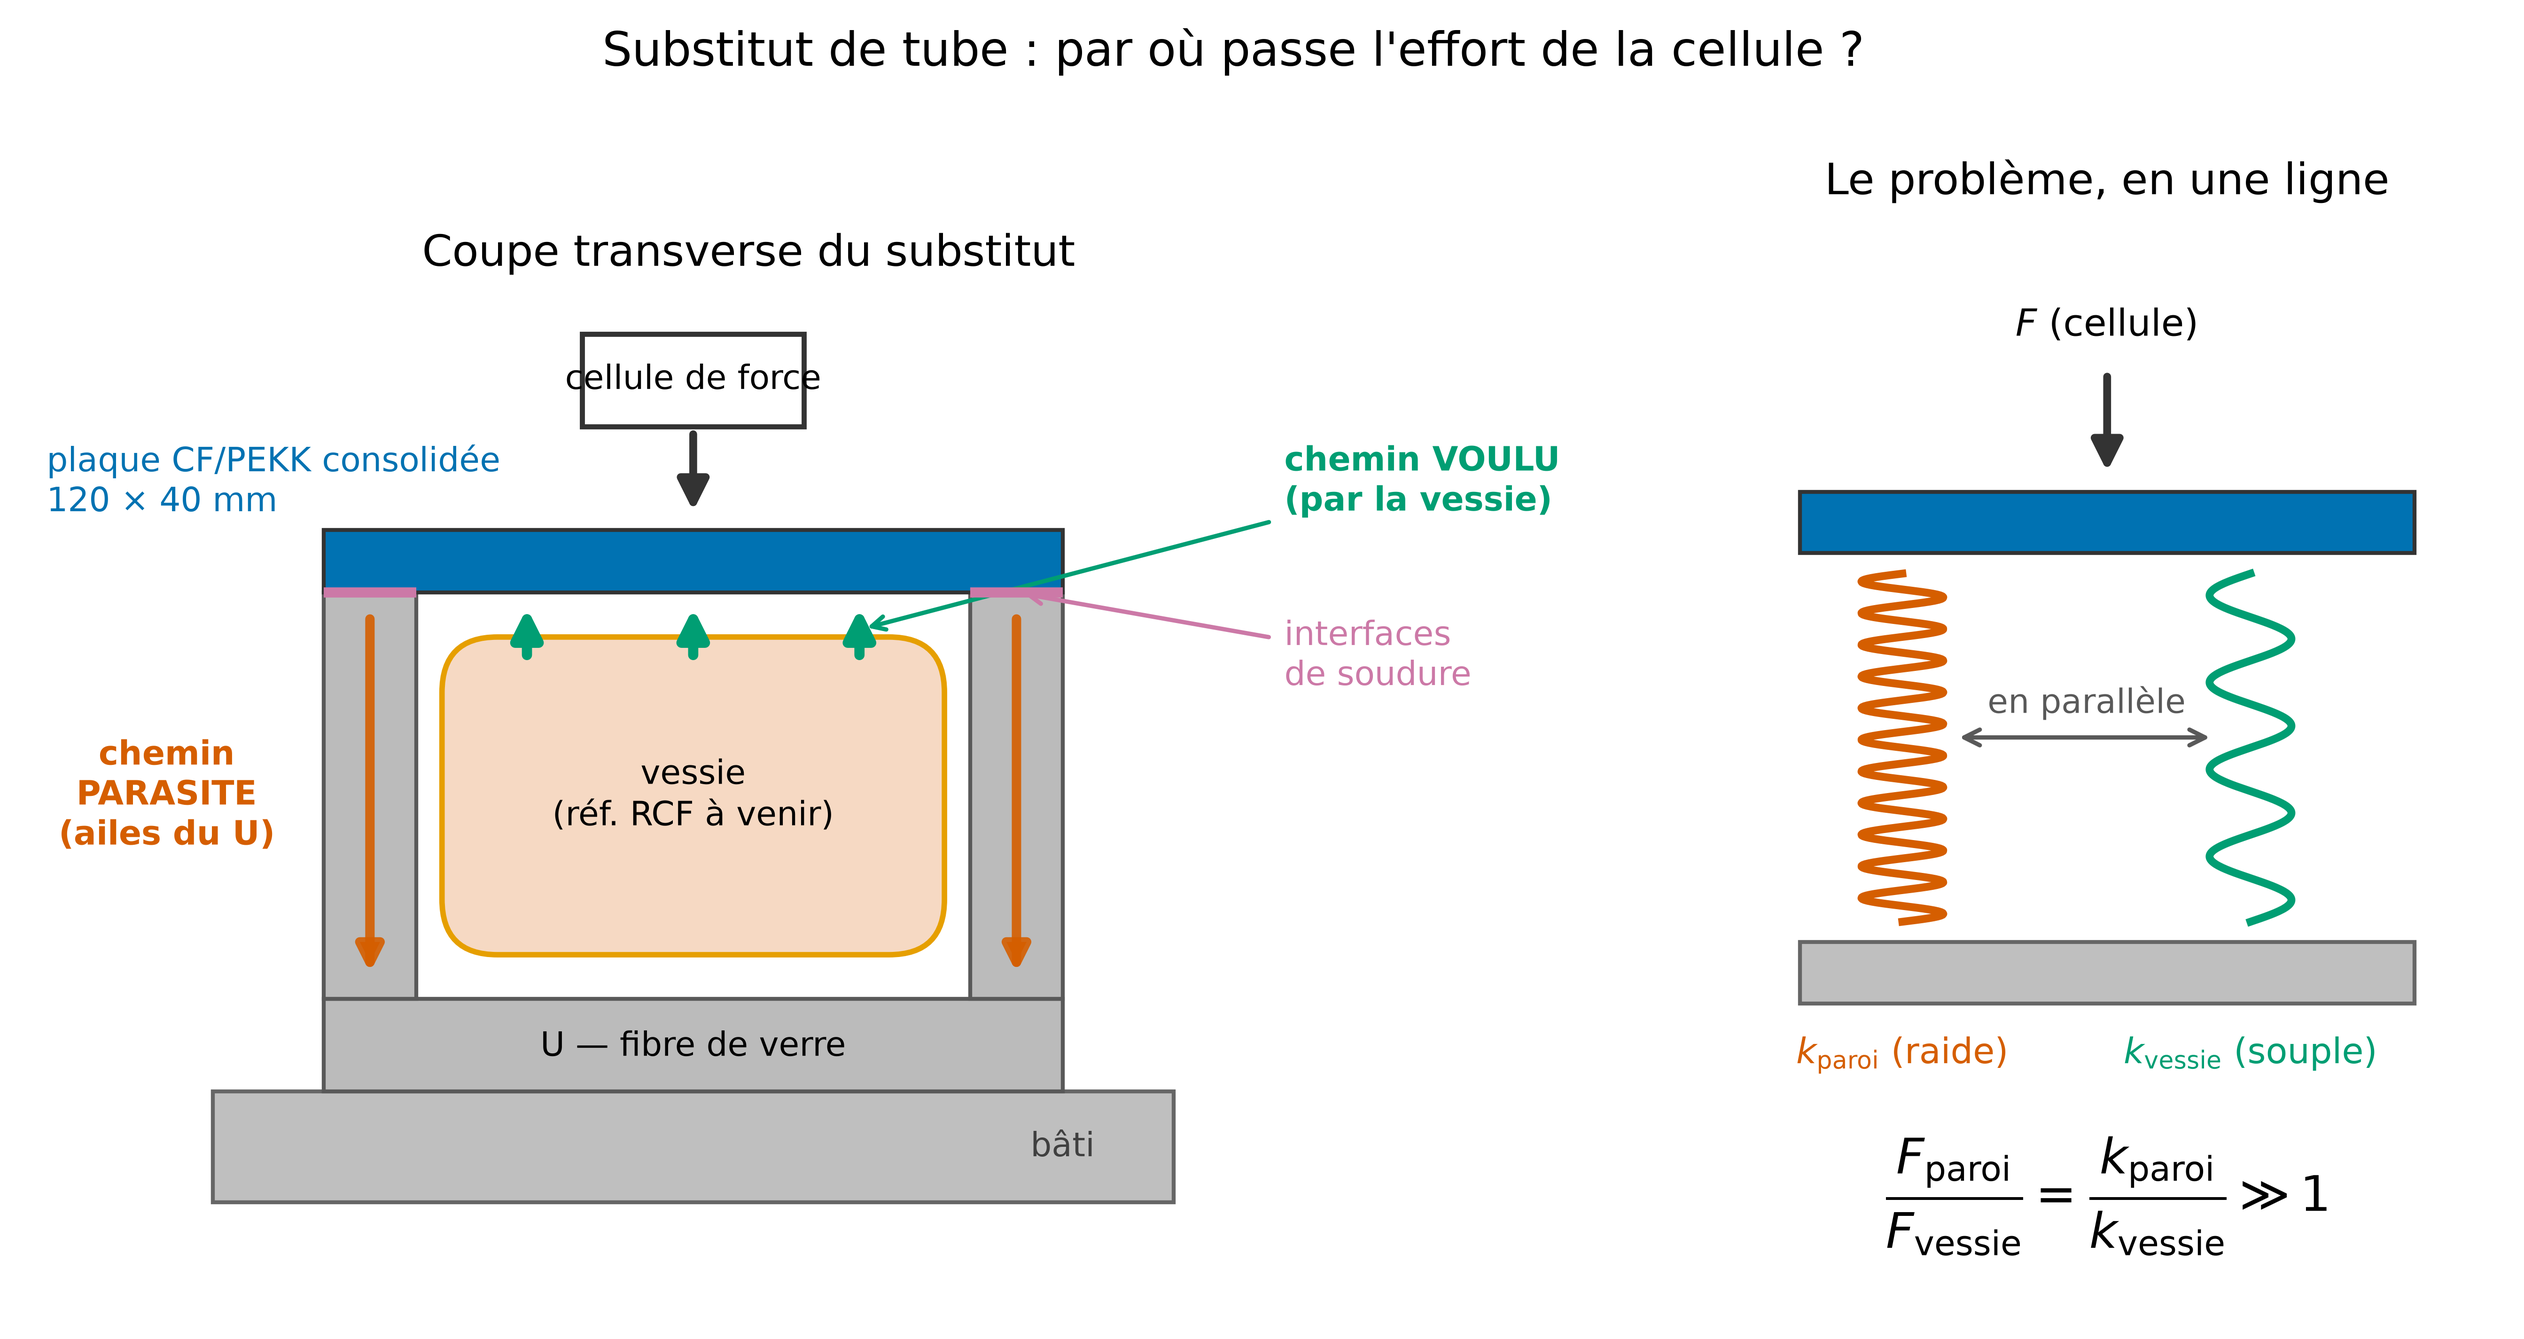
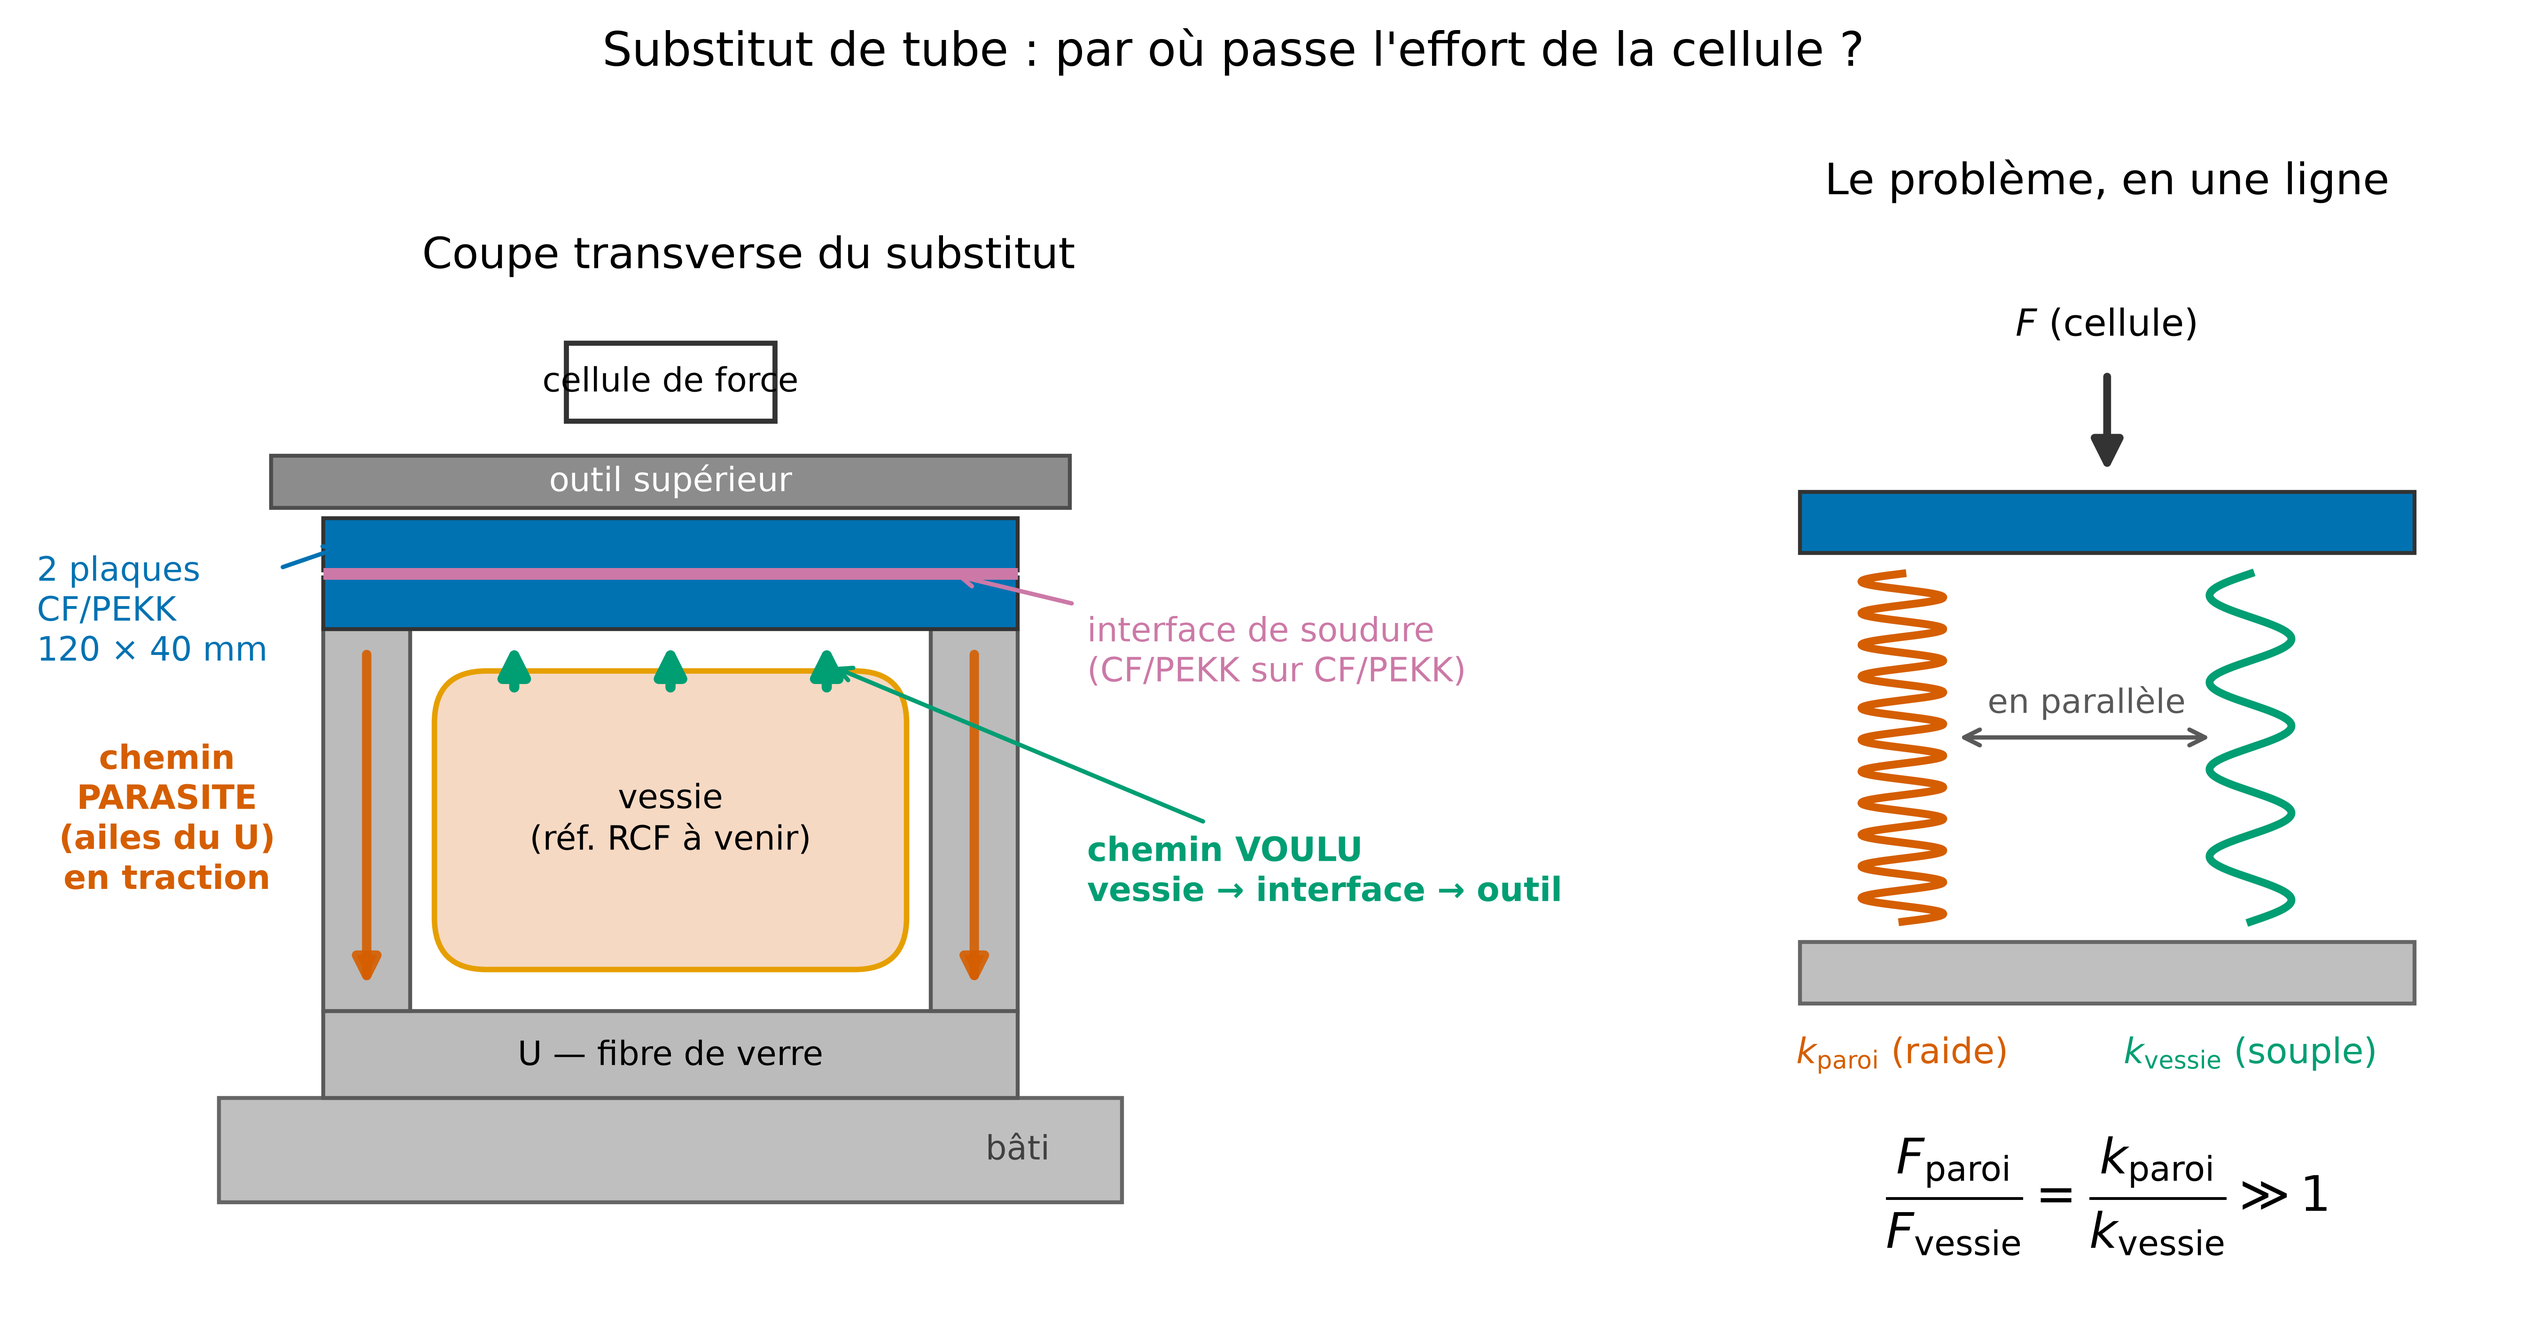
issue #71 : la soudure est CF/PEKK sur CF/PEKK — figure corrigee, circuit etabli
CORRECTION D'UNE ERREUR DE MA PART. Je placais les interfaces de soudure SUR LES
AILES DU U, et la figure le dessinait ainsi. C'est faux : la soudure se fait
entre DEUX PLAQUES CF/PEKK de meme longueur, comme sur le montage plan actuel.
Le U referme le tube et tient la geometrie ; il n'est pas un substrat de soudure.
Figure refaite en consequence : deux plaques empilees, interface entre elles,
outil superieur ajoute au-dessus.

LE CIRCUIT EST DESORMAIS ETABLI par trois reponses successives — cellule
au-dessus, vessie poussant vers le haut contre l'outil superieur, soudure
plaque-sur-plaque :

  vessie -> plaque inferieure -> interface -> plaque superieure -> outil -> cellule

Les ailes relient l'ame (poussee vers le bas) aux plaques (retenues en haut) :
elles travaillent en TRACTION et SOUSTRAIENT a ce qui traverse l'interface,
p.A = R_outil + T_ailes. Plus les ailes sont raides, moins la vessie atteint la
soudure — la crainte initiale est fondee, et desormais ecrite sous forme de
bilan.

POINT FAVORABLE, sous reserve de verification : si rien d'autre que l'outil ne
touche la plaque superieure, la cellule mesure R_outil, c'est-a-dire l'effort qui
traverse REELLEMENT l'interface, et non une somme polluee. L'instrumentation
serait alors saine et le probleme se reduirait a un rendement. La reserve est
ecrite : tout appui lateral ou toute reprise sur le U rouvrirait la question.

Pistes reordonnees : la 1 devient decoupler les ailes de l'empilement (la plus
[…]

diff --git a/code/scripts/gen/gen_schema_substitut_tube.py b/code/scripts/gen/gen_schema_substitut_tube.py
@@ -1,8 +1,16 @@
 """Schéma du problème de cheminement d'effort — substitut de tube en U (issue à ouvrir).
 
 Le tube CF/PEKK ne sera pas disponible. Le substitut envisagé : un U en fibre de
-verre refermé par une plaque CF/PEKK consolidée 120 x 40 mm, soudée sur les deux
-ailes du U — l'ensemble formant un tube. Une vessie gonflable occupe la cavité.
+verre refermé par une plaque CF/PEKK consolidée 120 x 40 mm — l'ensemble formant
+un tube. Une vessie gonflable occupe la cavité.
+
+LA SOUDURE EST ENTRE DEUX PLAQUES CF/PEKK de même longueur, posées sur le tube,
+comme sur le montage plan actuel. Le U n'est PAS un substrat de soudure : il est
+purement structurel. (Une version antérieure de ce schéma plaçait à tort les
+interfaces sur les ailes du U.)
+
+LA VESSIE pousse l'empilement vers le haut contre l'OUTIL SUPÉRIEUR : c'est cette
+réaction qui comprime l'interface de soudure.
 
 LA QUESTION : faire passer l'effort de la cellule de force DANS LA VESSIE, et non
 dans les parois du U.
@@ -59,43 +67,46 @@ def panneau_montage(ax) -> None:
                                 facecolor="#F6D9C3", edgecolor=OKABE_ITO["orange"], lw=1.4))
     ax.text(20, 16, "vessie\n(réf. RCF à venir)", ha="center", va="center", fontsize=8.5)
 
-    # plaque CF/PEKK soudee sur les deux ailes
-    ax.add_patch(Rectangle((0, 27), 40, 3.4, facecolor=CFPEKK, edgecolor="0.2"))
-    ax.annotate("plaque CF/PEKK consolidée\n120 × 40 mm", xy=(4, 28.7), xytext=(-15, 33),
+    # plaque 1 : referme le U pour en faire un tube
+    ax.add_patch(Rectangle((0, 27), 40, 3, facecolor=CFPEKK, edgecolor="0.2"))
+    # plaque 2 : soudee sur la premiere, meme longueur
+    ax.add_patch(Rectangle((0, 30.4), 40, 3, facecolor=CFPEKK, edgecolor="0.2"))
+    ax.annotate("2 plaques\nCF/PEKK\n120 × 40 mm", xy=(1.5, 31.9), xytext=(-16.5, 28),
                 fontsize=8.5, color=CFPEKK, ha="left", va="center",
                 arrowprops=dict(arrowstyle="->", color=CFPEKK, lw=1.1))
 
-    # interfaces de soudure
-    for x in (2.5, 37.5):
-        ax.plot([x - 2.5, x + 2.5], [27, 27], color=OKABE_ITO["rose"], lw=2.6,
-                solid_capstyle="butt", zorder=5)
-    ax.annotate("interfaces\nde soudure", xy=(37.5, 27), xytext=(52, 22),
+    # INTERFACE DE SOUDURE : entre les deux plaques, pas sur les ailes du U
+    ax.plot([0, 40], [30.2, 30.2], color=OKABE_ITO["rose"], lw=3.0,
+            solid_capstyle="butt", zorder=6)
+    ax.annotate("interface de soudure\n(CF/PEKK sur CF/PEKK)", xy=(36, 30.2), xytext=(44, 24),
                 fontsize=8.5, color=OKABE_ITO["rose"], ha="left",
                 arrowprops=dict(arrowstyle="->", color=OKABE_ITO["rose"], lw=1.1))
 
-    # cellule de force
-    ax.add_patch(Rectangle((14, 36), 12, 5, facecolor="white", edgecolor="0.2", lw=1.3))
-    ax.text(20, 38.5, "cellule de force", ha="center", va="center", fontsize=8.5)
-    ax.add_patch(FancyArrowPatch((20, 36), (20, 31), arrowstyle="-|>",
-                                 mutation_scale=16, color="0.2", lw=2))
+    # outil superieur + cellule au-dessus
+    ax.add_patch(Rectangle((-3, 34), 46, 3, facecolor="0.55", edgecolor="0.3"))
+    ax.text(20, 35.5, "outil supérieur", ha="center", va="center", fontsize=8.5,
+            color="white")
+    ax.add_patch(Rectangle((14, 39), 12, 4.5, facecolor="white", edgecolor="0.2", lw=1.3))
+    ax.text(20, 41.2, "cellule de force", ha="center", va="center", fontsize=8.5)
 
     # chemin PARASITE : par les ailes
     for x in (2.5, 37.5):
         ax.add_patch(FancyArrowPatch((x, 26), (x, 6), arrowstyle="-|>", mutation_scale=13,
                                      color=PARASITE, lw=2.4, alpha=0.9))
-    ax.text(-8.5, 16, "chemin\nPARASITE\n(ailes du U)", ha="center", va="center",
-            fontsize=8.5, color=PARASITE, fontweight="bold")
+    ax.text(-9, 16, "chemin\nPARASITE\n(ailes du U)\nen traction", ha="center",
+            va="center", fontsize=8.5, color=PARASITE, fontweight="bold")
 
-    # chemin VOULU : par la vessie
+    # chemin VOULU : la vessie POUSSE VERS LE HAUT, l'outil reagit
     for x in (11, 20, 29):
         ax.add_patch(FancyArrowPatch((x, 23.2), (x, 26.6), arrowstyle="-|>",
                                      mutation_scale=15, color=VOULU, lw=2.6))
-    ax.annotate("chemin VOULU\n(par la vessie)", xy=(29, 25), xytext=(52, 33),
+    ax.annotate("chemin VOULU\nvessie → interface → outil",
+                xy=(29, 25), xytext=(44, 13),
                 fontsize=8.5, color=VOULU, fontweight="bold", ha="left", va="center",
                 arrowprops=dict(arrowstyle="->", color=VOULU, lw=1.1))
 
-    ax.set_xlim(-16, 62)
-    ax.set_ylim(-8, 43)
+    ax.set_xlim(-17, 66)
+    ax.set_ylim(-8, 46)
     ax.set_aspect("equal")
     ax.axis("off")
     ax.set_title("Coupe transverse du substitut", pad=8)

diff --git a/biblio/modele/issue71_substitut_tube_chemin_effort.md b/biblio/modele/issue71_substitut_tube_chemin_effort.md
@@ -11,14 +11,15 @@ Le tube CF/PEKK ne sera pas disponible pour le projet. Le substitut envisagé :
 
 - un **U en fibre de verre**,
 - refermé par une **plaque CF/PEKK consolidée 120 × 40 mm** (presse chauffante, comme les échantillons actuels),
-- soudée sur les deux ailes du U — l'ensemble formant un tube,
+- refermant le U pour en faire un **tube** — le U est **structurel**, pas un substrat de soudure,
+- **une seconde plaque CF/PEKK de même longueur soudée sur la première** : c'est là qu'est l'interface étudiée, comme sur le montage plan actuel,
 - une **vessie** gonflable dans la cavité (référence à venir de **RCF Technologies**).
 
 ## La question
 
 **Comment faire passer les efforts transmis par la cellule de force dans la vessie, et non dans les parois du U ?**
 
-![Cheminement de l'effort](https://raw.githubusercontent.com/maxencesoixante/Jumeau_Soudage_Induction/main/biblio/labo/figures/fig_substitut_tube_chemins_effort.png)
+![Cheminement de l'effort](https://raw.githubusercontent.com/maxencesoixante/Jumeau_Soudage_Induction/main/biblio/labo/figures/fig_substitut_tube_chemins_effort.png?v=1)
 
 *À gauche : la coupe transverse et les deux trajets possibles de l'effort. À droite : le même montage réduit à deux raideurs en parallèle.*
 
@@ -55,8 +56,8 @@ Deux conséquences pour les pistes ci-dessous. La piste 1 devient celle qui **re
 
 Rien de ce qui suit n'est vérifié — ce sont les familles de solutions à instruire, pas une recommandation.
 
-1. **Supprimer le chemin parasite par un jeu.** La plaque ne repose pas sur les ailes : un jeu les sépare, la vessie seule porte, et les ailes ne servent que de butée au-delà d'une course donnée. Demande de maîtriser ce jeu à chaud, alors que la soudure le referme.
-2. **Mettre la cellule en série avec la vessie et non en parallèle avec la structure.** La cellule mesure la réaction de la vessie (piston, ligne de pression) plutôt que l'effort global du bâti. Le partage cesse d'être un problème : on ne mesure que ce qui traverse la vessie.
+1. **Découpler les ailes de l'empilement.** Si les plaques ne sont pas solidaires des ailes, celles-ci ne peuvent plus tirer vers le bas : toute la poussée de la vessie traverse l'interface. C'est la piste la plus directe au vu du circuit établi. Reste à savoir comment le U tient alors la géométrie — les deux fonctions doivent être portées par des éléments distincts.
+2. ~~**Mettre la cellule en série avec la vessie**~~ — **sans objet.** La cellule mesure déjà la réaction de l'outil, donc l'effort qui traverse l'interface, sous réserve du point de vérification ci-dessus.
 3. **Piloter en pression plutôt qu'en effort.** La pression d'interface vaut la pression vessie (à la géométrie près), indépendamment du chemin parasite ; la cellule ne sert plus que de sécurité. Demande de connaître la pression réellement transmise par la vessie.
 4. ~~**Assouplir localement les ailes**~~ — **écartée.** Le U doit tenir la géométrie sous pression pendant la soudure (confirmé) : il ne peut pas être rendu souple. La piste est close, pas en attente.
 
@@ -65,24 +66,29 @@ Rien de ce qui suit n'est vérifié — ce sont les familles de solutions à ins
 - **Référence et caractéristiques de la vessie** — attendues de RCF Technologies. Sans sa raideur et sa plage de pression, le rapport $k_{\text{paroi}}/k_{\text{vessie}}$ n'est pas chiffrable, et aucune piste ne peut être comparée.
 - **Section du U** : hauteur, largeur intérieure, épaisseur des ailes. Seule la plaque est cotée (120 × 40 mm).
 
-## Ce que fait la vessie — et la question que cela déplace
+## Le circuit, maintenant établi
 
-**Réponse confirmée : la vessie pousse la plaque contre l'outil supérieur.** La pression de consolidation s'applique donc **sur la plaque**, la réaction étant fournie par l'outil au-dessus. Ce n'est pas la vessie qui referme les soudures des ailes.
+Trois réponses ont fermé les inconnues de conception :
 
-Deux conséquences.
+1. la **cellule est au-dessus** de l'empilement ;
+2. la **vessie pousse l'empilement vers le haut contre l'outil supérieur** ;
+3. la soudure se fait **CF/PEKK sur CF/PEKK**, deux plaques de même longueur — le U ne porte aucune soudure.
 
-**Les soudures d'ailes ne sont pas consolidées par la vessie.** La plaque étant poussée vers le haut et retenue par l'outil, les ailes travaillent en **traction** : la vessie tend à écarter la plaque du U, non à la plaquer sur les ailes. Ce qui met ces interfaces-là en compression pendant la soudure reste à identifier — c'est une question distincte de celle posée ici, mais elle ne peut pas rester ouverte indéfiniment.
+Le circuit voulu est donc : **vessie → plaque inférieure → interface de soudure → plaque supérieure → outil → cellule**. La pression de consolidation vient de la vessie, et c'est l'outil supérieur qui fournit la réaction.
 
-**Et surtout, la nature de la cellule redevient incertaine.** Deux montages sont compatibles avec ce qui est décrit, et ils n'ont pas le même problème :
+### Ce que les ailes du U détournent
 
-| montage | rôle de la cellule | le partage d'effort dans les ailes |
-|---|---|---|
-| **A — presse au-dessus** : un vérin pousse l'outil vers le bas, la vessie pousse vers le haut ; la plaque est prise en étau | la cellule **transmet** l'effort de la presse | **pollue la mesure** — l'analyse de cette issue s'applique intégralement |
-| **B — vessie seule actionneur** : la vessie pousse, l'outil supérieur ne fait que réagir | la cellule **mesure la réaction** de l'outil | ne la pollue **pas** : la cellule lit $p \cdot A_{\text{plaque}}$, le circuit des ailes est séparé (vessie → âme → bâti) |
+Les ailes relient l'âme (poussée vers le bas par la vessie) aux plaques (retenues en haut par l'outil) : elles travaillent donc en **traction**, et cette traction **soustrait** à ce qui traverse l'interface. Sur la plaque inférieure :
 
-⚠ **Dans le montage B, le problème posé par cette issue n'existe pas.** La cellule n'est plus en parallèle avec les ailes mais en série avec la vessie — ce que la piste 2 cherchait précisément à obtenir, et qui serait déjà acquis. La figure de cette issue suppose le montage A.
+$$p \cdot A = R_{\text{outil}} + T_{\text{ailes}}$$
 
-**C'est donc la question à trancher en premier :** la cellule transmet-elle l'effort d'une presse, ou mesure-t-elle la réaction d'un outil que seule la vessie sollicite ?
+Autrement dit, **plus les ailes sont raides, moins la pression de la vessie atteint la soudure** — il faut alors gonfler davantage pour une même pression d'interface, et le rapport entre les deux devient inconnu. C'est exactement la crainte formulée au départ, et elle est fondée.
+
+### Un point favorable, qu'il faut vérifier
+
+Si rien d'autre que l'outil ne touche la plaque supérieure, la cellule mesure $R_{\text{outil}}$, c'est-à-dire **l'effort qui traverse réellement l'interface** — pas la somme polluée. Dans ce cas l'instrumentation est saine, et le problème se réduit à un rendement : quelle fraction de $p \cdot A$ arrive à la soudure.
+
+⚠ **À confirmer sur le montage réel** : la plaque supérieure ne doit toucher que l'outil. Tout appui latéral ou toute reprise sur le U rouvrirait le problème de mesure.
 
 ## Ce montage est une conception neuve, pas une adaptation
 
